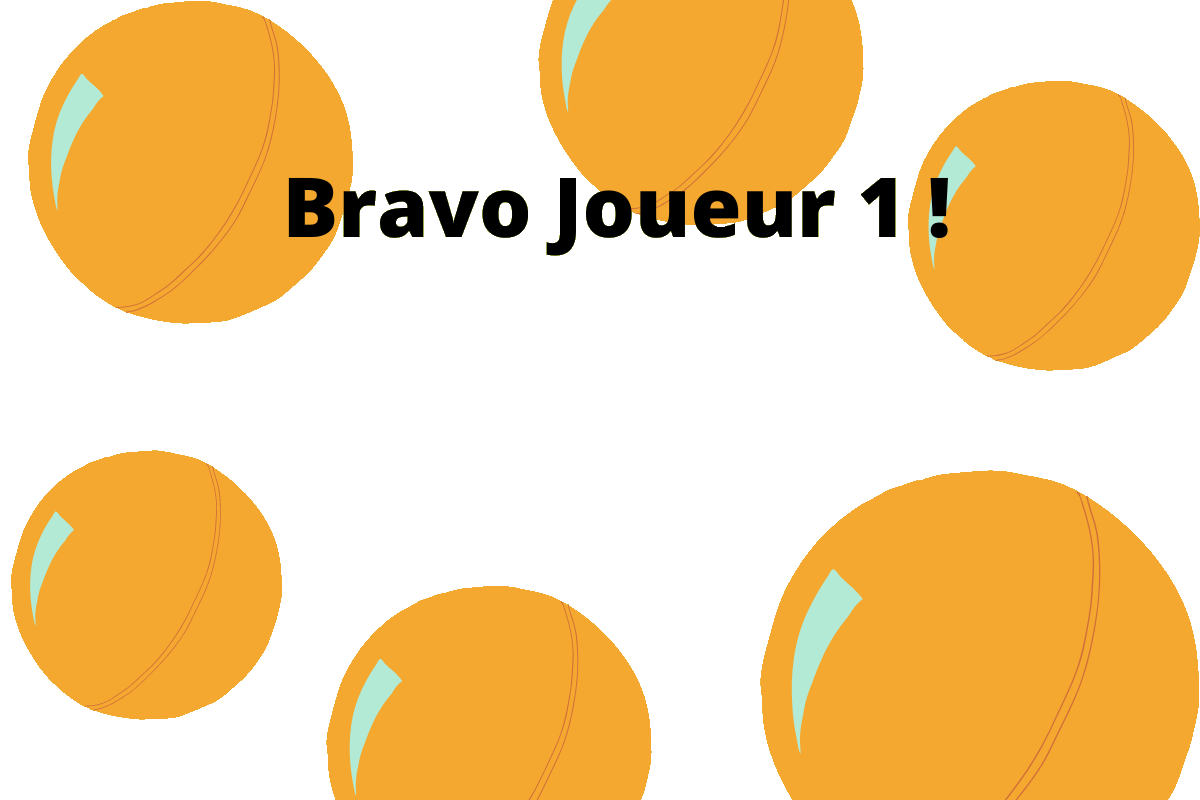
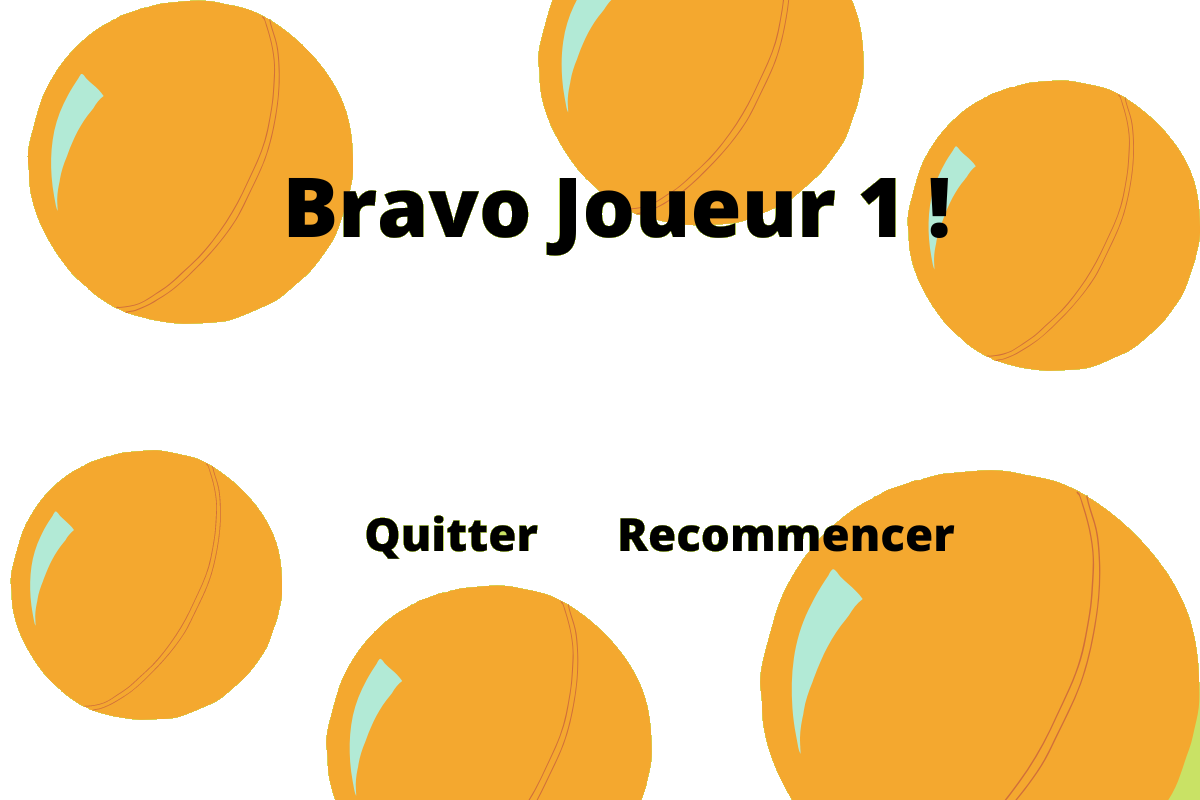
Menu de Fin terminé

Changed region(s): [[0.4933, 0.6562, 0.8017, 0.6875], [0.3083, 0.625, 0.4625, 0.7188], [0.9558, 0.875, 1.0, 1.0]]

diff --git a/src/main/java/gui/App.java b/src/main/java/gui/App.java
@@ -52,7 +52,7 @@ import javax.sound.sampled.UnsupportedAudioFileException;
 
 public class App extends Application {
 
-    public Pane root;
+    public static Pane root;
     public Scene gameScene;
 
     App(Pane root, Scene a){
@@ -69,6 +69,12 @@ public class App extends Application {
             commandes[3] = s[3];
         }
 
+        public static Button Quitter= new Button("Quitter") ;
+        public static Button Reprendre= new Button("Reprendre") ;
+        public static Button Recommencer= new Button("Recommencer") ;
+
+
+
     public void start(Stage primaryStage)  {
 
                     class Player implements RacketController {
@@ -84,7 +90,7 @@ public class App extends Application {
                     BackgroundImage bImg = new BackgroundImage(img, BackgroundRepeat.NO_REPEAT, BackgroundRepeat.NO_REPEAT, BackgroundPosition.DEFAULT, BackgroundSize.DEFAULT);
                     Background bGround = new Background(bImg);
                     root.setBackground(bGround);
-                    var court = new Court(playerA, playerB, 1000, 600, 3);
+                    var court = new Court(playerA, playerB, 1000, 600, 2);
                     var gameView = new GameView(court, root, 1);
 
 
@@ -94,7 +100,6 @@ public class App extends Application {
                     imageV.setX(290);
                     imageV.setY(200);
                     
-                    Button Quitter= new Button("Quitter") ;
                     Quitter.setLayoutX(320);
                     Quitter.setLayoutY(350);
                     Quitter.setMinSize(80, 80);
@@ -102,7 +107,6 @@ public class App extends Application {
                     Quitter.setSkin(new MyButtonSkin(Quitter));
                   
                     
-                    Button Reprendre= new Button("Reprendre") ;
                     Reprendre.setLayoutX(485);
                     Reprendre.setLayoutY(350);
                     Reprendre.setMinSize(80, 80);
@@ -110,7 +114,6 @@ public class App extends Application {
                     Reprendre.setSkin(new MyButtonSkin(Reprendre));
                    
 
-                    Button Recommencer= new Button("Recommencer") ;
                     Recommencer.setLayoutX(695);
                     Recommencer.setLayoutY(350);
                     Recommencer.setMinSize(80, 80);
@@ -130,11 +133,11 @@ public class App extends Application {
                             } else if(s == commandes[3]){
                                 playerB.state = RacketController.State.GOING_DOWN;
                             } else if(s == "ESCAPE"){
-                               if(!gameView.pause){
+                               if(!gameView.pause && !GameView.getFin()){
                                 root.getChildren().add(imageV);
                                 root.getChildren().addAll(Quitter, Reprendre, Recommencer);
                                 gameView.pause = true;
-                               }else{
+                               }else if(!GameView.getFin()){
                                 root.getChildren().removeAll(imageV, Quitter, Reprendre, Recommencer);
                                 gameView.pause = false ; 
                                }
@@ -157,18 +160,9 @@ public class App extends Application {
                         }
                     });
 
-                  
-                        if(GameView.finGame == true ){
-                            Image fin = new Image("file:src/Pictures/WinJ1.png");
-                            ImageView finJ1 = new ImageView(fin);
-                            root.getChildren().add(finJ1);
-                            root.getChildren().addAll(Quitter, Reprendre, Recommencer);
-                            // imageV.setX(290);
-                            // imageV.setY(200);                   
-                        }
-                    
 
                     gameView.animate();
+                    
 
                     //Action du bouton Quitter
                     Quitter.setOnAction(ev1 -> {
@@ -186,12 +180,17 @@ public class App extends Application {
 
                     //Action du bouton Recommencer
                     Recommencer.setOnAction(ev1 ->{
+                        Quitter.setLayoutX(320);
+                        Recommencer.setLayoutX(695);
+                        Recommencer.setLayoutY(350);
+                        Quitter.setLayoutY(350);
                         root.getChildren().remove(imageV);
+                        root.getChildren().removeAll(Court.finJ1, Court.finJ2, Court.whitesmoke);
                         root.getChildren().removeAll(Quitter, Reprendre, Recommencer);
-                       court.reset() ; 
-                       court.getScore().reset();
-                       gameView.pause = false ; 
-                       GameView.finGame = false;
+                        court.reset() ; 
+                        court.getScore().reset();
+                        gameView.pause = false ; 
+                        GameView.finGame = false;
                     });			
 
     }       

diff --git a/src/main/java/model/Court.java b/src/main/java/model/Court.java
@@ -1,6 +1,18 @@
 package model;
 import gui.GameView;
-
+import javafx.scene.image.ImageView;
+import javafx.application.Application;
+import javafx.scene.Scene;
+import javafx.scene.layout.Pane;
+import javafx.stage.Stage;
+import model.Court;
+import model.RacketController;
+import javafx.scene.shape.Rectangle;
+import javafx.scene.image.Image;
+import javafx.scene.layout.*;
+import javafx.stage.Stage;
+import javafx.scene.image.*;
+import javafx.scene.effect.ImageInput;
 
 public class Court {
     // instance parameters
@@ -118,6 +130,13 @@ public class Court {
     /**
      * @return true if a player lost
      */
+    static Image fin = new Image("file:src/Pictures/WinJ2.png");
+    public static ImageView finJ2 = new ImageView(fin);
+    static Image fin1 = new Image("file:src/Pictures/WinJ1.png");
+    public static ImageView finJ1 = new ImageView(fin1);
+    static Image smoke = new Image("file:src/Pictures/whitesmoke.png");
+    public static ImageView whitesmoke = new ImageView(smoke);
+
     private boolean updateBall(double deltaT) {
         // first, compute possible next position if nothing stands in the way
         double nextBallX = ballX + deltaT * ballSpeedX;
@@ -135,12 +154,26 @@ public class Court {
             score.addScore1();
             if (score.endGame() != -1){
                 GameView.finGame = true ;
+                gui.App.root.getChildren().add(whitesmoke);
+                gui.App.root.getChildren().add(finJ2);
+                gui.App.Quitter.setLayoutX(370);
+                gui.App.Recommencer.setLayoutX(695);
+                gui.App.Recommencer.setLayoutY(400);
+                gui.App.Quitter.setLayoutY(390);
+                gui.App.root.getChildren().addAll(gui.App.Quitter, gui.App.Recommencer);
             }
             return true;
         }else if (nextBallX > width) { 
             score.addScore2();
             if (score.endGame() != -1){
                 GameView.finGame = true ;
+                gui.App.root.getChildren().add(whitesmoke);
+                gui.App.root.getChildren().add(finJ1);
+                gui.App.Quitter.setLayoutX(370);
+                gui.App.Recommencer.setLayoutX(695);
+                gui.App.Recommencer.setLayoutY(400);
+                gui.App.Quitter.setLayoutY(390);
+                gui.App.root.getChildren().addAll(gui.App.Quitter,  gui.App.Recommencer);
             }
             return true;
         }
@@ -148,6 +181,7 @@ public class Court {
         ballY = nextBallY;
         return false;
     }
+    
 
     public double getBallRadius() {
         return ballRadius;

diff --git a/src/main/java/gui/Menu.java b/src/main/java/gui/Menu.java
@@ -28,6 +28,22 @@ import java.io.File;
 import java.io.IOException; 
 import java.util.Scanner;
 
+
+import java.io.IOException;
+import java.net.URL;
+import java.util.ResourceBundle;
+import javafx.animation.Interpolator;
+import javafx.animation.KeyFrame;
+import javafx.animation.KeyValue;
+import javafx.animation.Timeline;
+import javafx.event.ActionEvent;
+import javafx.scene.Group;
+import javafx.scene.Parent;
+import javafx.scene.Scene;
+import javafx.scene.control.Button;
+import javafx.scene.layout.AnchorPane;
+import javafx.scene.layout.StackPane;
+import javafx.util.Duration;
 /* ------------------------------------------------------------------------------------------------------*/
 
 //Menu principale du Jeu 

diff --git a/src/main/java/gui/GameView.java b/src/main/java/gui/GameView.java
@@ -35,7 +35,7 @@ public class GameView {
         finGame = b;
     }
     
-    boolean getFin(){
+    public static boolean getFin(){
         return finGame;
     }
     void setPause(boolean b){
